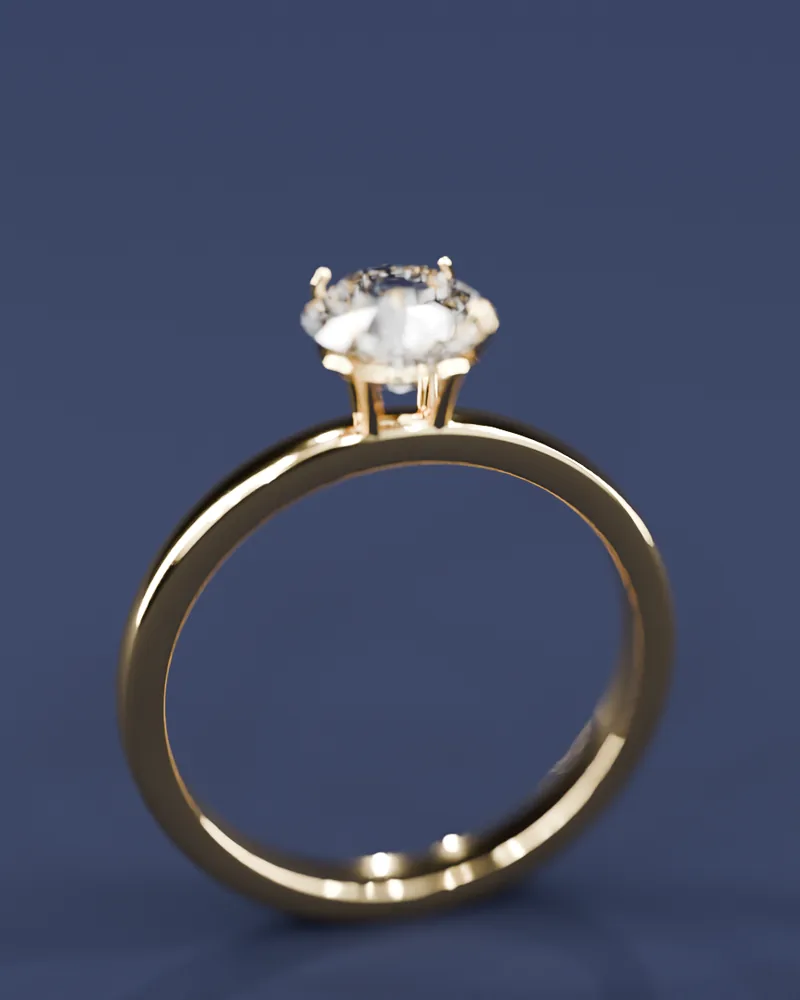
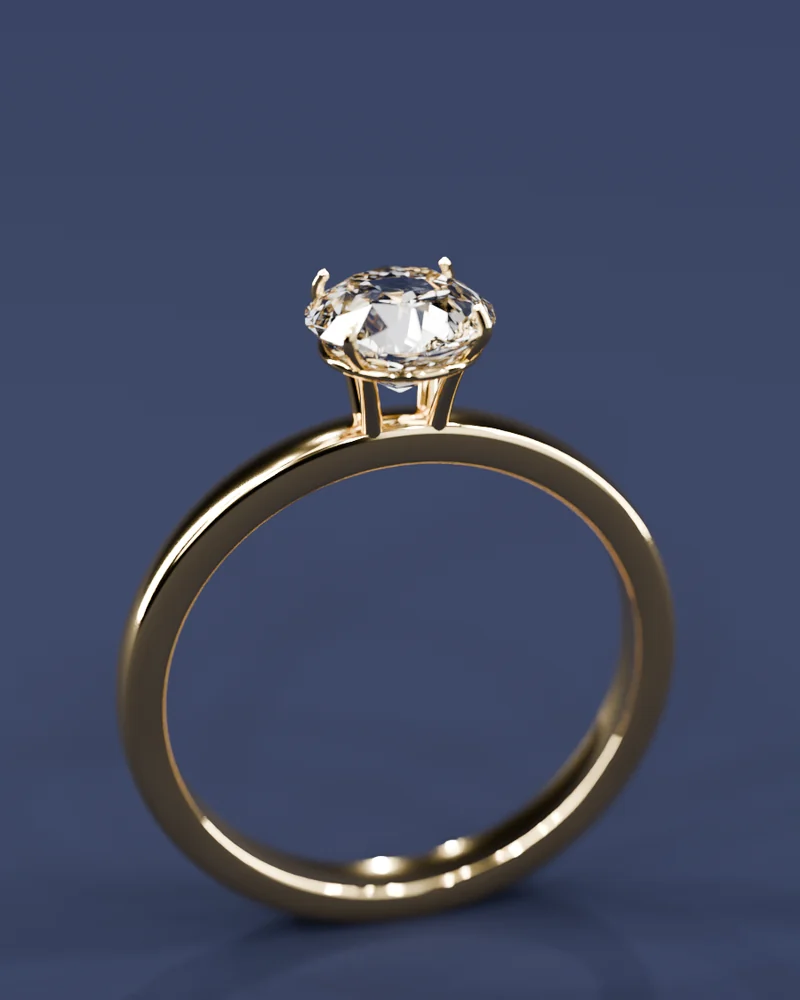
SERAVEL: keep the ring's stone in focus
The product shot focused on the band and the hero on the table. The stone
fell outside the sharp zone and the denoiser smeared its facets. The camera
now focuses on the stone itself with a deeper focus range. Photos render at
512 samples.

Claude-Session: https://claude.ai/code/session_018BGEB6D8wuTAowK1UCa7K5

diff --git a/blender/seravel_photos.py b/blender/seravel_photos.py
@@ -112,6 +112,16 @@ def set_and_lights(spread=0.12, sparks=True, dim=1.0):
         area(f'spark{i}', (math.cos(a) * 0.16, math.sin(a) * 0.16 - 0.04, 0.14 + 0.05 * (i % 3)), 0.006, 0.6 + 0.3 * (i % 2))
 
 
+FOCUS = {}  # objects the camera should keep sharp (the ring's stone)
+
+
+def focus_on_stone():
+    # Point the focus at the ring's stone so its facets stay crisp. Blender reads the object's world position.
+    cam = bpy.context.scene.camera
+    if cam and FOCUS.get('stone'):
+        cam.data.dof.focus_object = FOCUS['stone']
+
+
 def camera(loc, target, lens, fstop=4.0):
     cam = bpy.data.cameras.new('cam')
     cam.lens = lens
@@ -168,6 +178,7 @@ def place(objs, loc, rot):
 
 def build_ring(metal, stone, loc=(0, 0, 0), turn=25):
     o = J.ring('high', mats_for(metal, stone))
+    FOCUS['stone'] = o['stone']
     return place(o, (loc[0], loc[1], loc[2] + J.RING_R + J.BAND_T - 0.0002), (0, 0, math.radians(turn)))
 
 
@@ -344,7 +355,7 @@ def main():
     a = C.args()
     C.reset()
     mode = a.get('mode', 'product')
-    samples = int(a.get('samples', 160))
+    samples = int(a.get('samples', 512))
     metal, stone = a.get('metal', 'Yellow gold'), a.get('stone', 'Diamond')
     set_and_lights(sparks=not ((mode == 'product' and a.get('piece') == 'hoops') or mode in ('workshop', 'dish', 'hero')), dim={'workshop': 0.25, 'dish': 0.35}.get(mode, 1.0))
     if mode in ('workshop', 'dish', 'stones', 'claws'):
@@ -354,7 +365,8 @@ def main():
         build_ring('Yellow gold', 'Diamond', (0.014, 0.0, 0), 30)
         build_pendant('White gold', 'Sapphire', (-0.006, -0.018, 0), -20)
         build_hoops('Rose gold', (0.04, 0.034, 0), turn=-12, grooves=False)  # out of focus here: fine grooves would only read as dots
-        camera((0.004, -0.15, 0.062), (0.016, 0.006, 0.01), 80, 11)
+        camera((0.004, -0.15, 0.062), (0.016, 0.006, 0.01), 80, 16)
+        focus_on_stone()
         render_settings(int(a.get('w', 2400)), int(a.get('h', 1500)), samples)
     else:
         piece = a.get('piece', 'ring')
@@ -363,7 +375,8 @@ def main():
             if a.get('cam') == 'macro':
                 camera((0.012, -0.036, 0.046), (0, 0, 0.0232), 100, 11)
             else:
-                camera((0.016, -0.085, 0.06), (0, 0, 0.017), 100, 9)
+                camera((0.016, -0.085, 0.06), (0, 0, 0.017), 100, 22)
+            focus_on_stone()
         elif piece == 'pendant':
             build_pendant(metal, stone)
             camera((0.0, -0.11, 0.06), (0, 0.006, 0.002), 100, 8.0)
